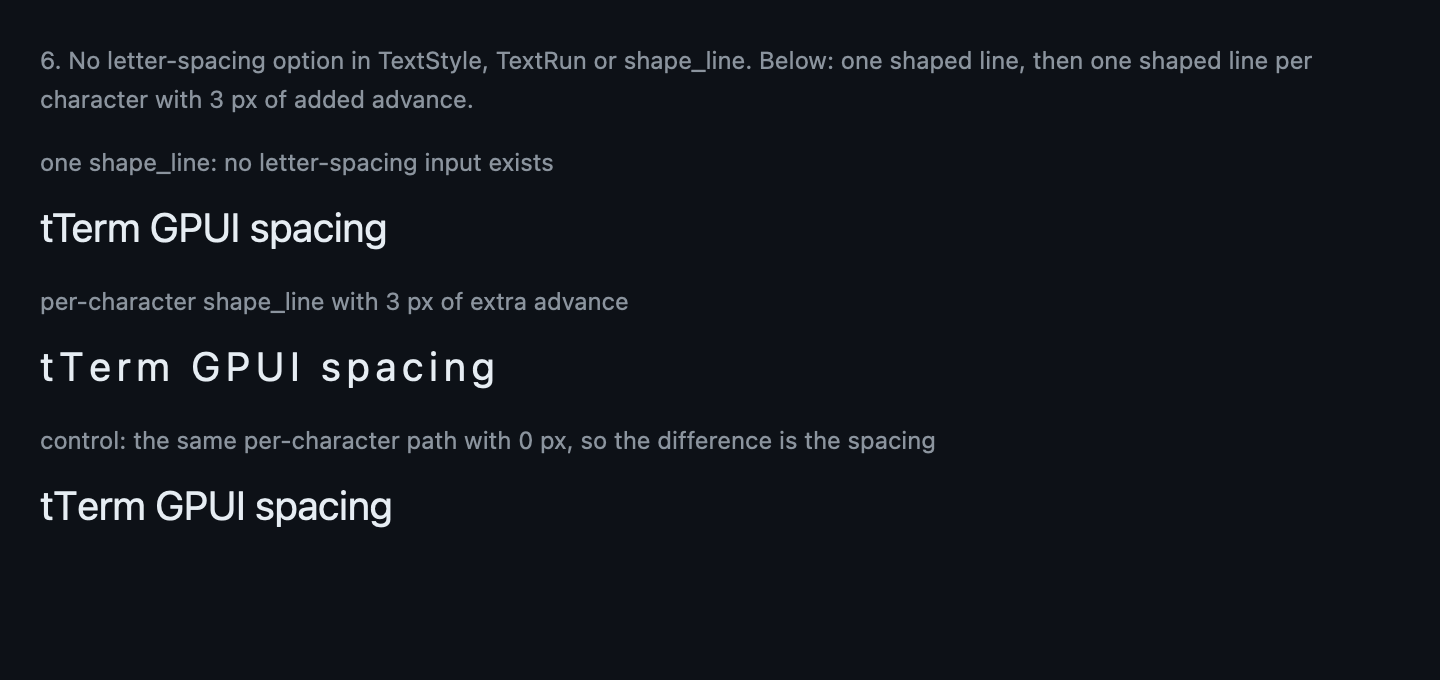
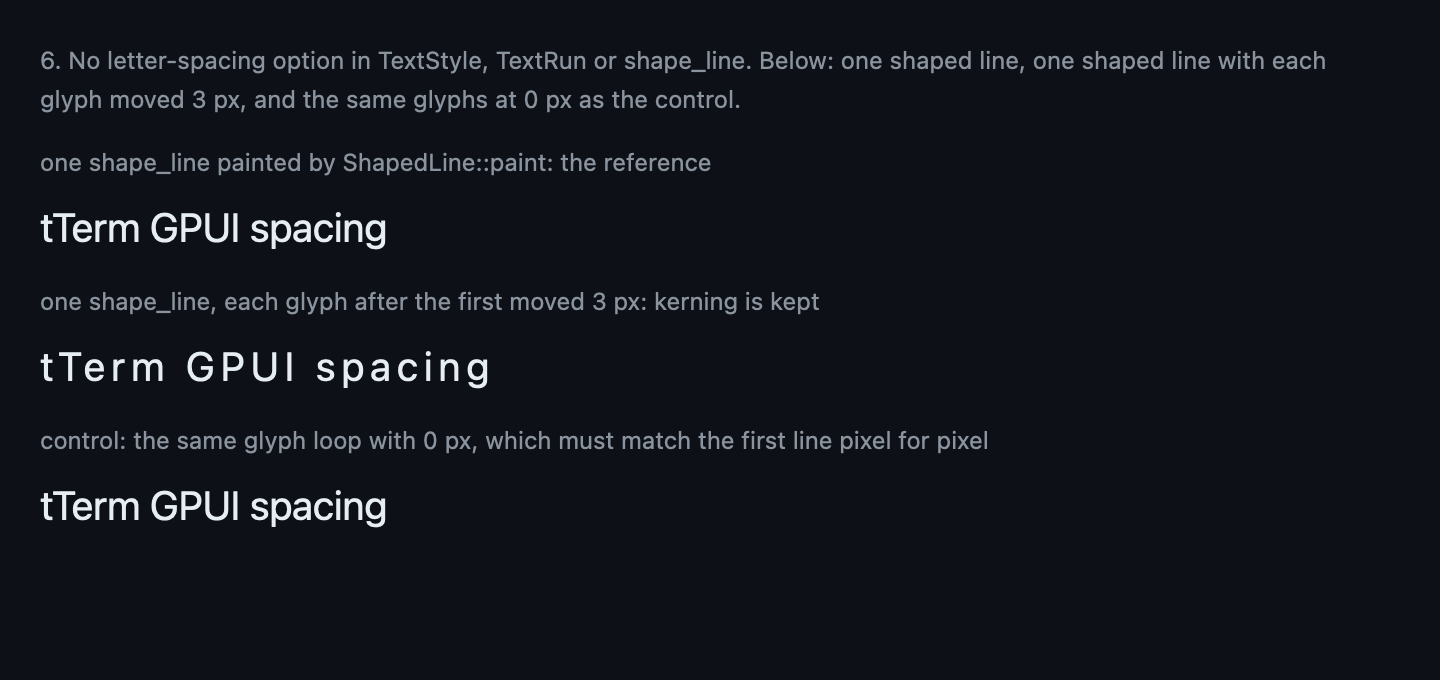
:white_check_mark: fix the P0-25 radial-gradient and letter-spacing demos
The radial demo now puts 24 and 96 concentric circles side by side so
the color bands are visible instead of claiming there are none, strokes
the ring with PathBuilder::stroke on a linear gradient so the middle
shows the background through, and draws the comet's conic gradient as 48
stroked arcs with a per-arc alpha. A source search confirms gpui-pre has
no conic gradient.

The letter-spacing demo shapes the whole line once and moves each
decoded glyph, which keeps kerning. The 0 px control is pixel-identical
to the reference line; the old per-character control ended five physical
pixels late and is gone.

diff --git a/crates/tterm-gpui/examples/p0_25_gpui_capabilities/scenes.rs b/crates/tterm-gpui/examples/p0_25_gpui_capabilities/scenes.rs
@@ -87,7 +87,7 @@ impl Scene {
             Scene::BlurElement => size(px(760.), px(560.)),
             Scene::RoundedMask => size(px(700.), px(420.)),
             Scene::LinearGradient => size(px(740.), px(480.)),
-            Scene::RadialGradient => size(px(700.), px(400.)),
+            Scene::RadialGradient => size(px(760.), px(540.)),
             Scene::LetterSpacing => size(px(720.), px(340.)),
             Scene::Shadows => size(px(760.), px(420.)),
             Scene::SvgColor => size(px(680.), px(300.)),
@@ -115,12 +115,14 @@ impl Scene {
                  stop from equal percentages."
             }
             Scene::RadialGradient => {
-                "5. No radial gradient and no mask. Below: 24 concentric filled circles and a ring \
-                 drawn as two circles."
+                "5. No radial gradient, no conic gradient and no mask. Below: 24 and 96 \
+                 concentric circles, then a ring and a comet stroked on a linear gradient so the \
+                 middle shows the background through."
             }
             Scene::LetterSpacing => {
                 "6. No letter-spacing option in TextStyle, TextRun or shape_line. Below: one shaped \
-                 line, then one shaped line per character with 3 px of added advance."
+                 line, one shaped line with each glyph moved 3 px, and the same glyphs at 0 px as \
+                 the control."
             }
             Scene::Shadows => {
                 "7. Box shadows are a Vec: one, two and three layers, plus an inset layer."
@@ -409,103 +411,205 @@ fn paint_circle(window: &mut Window, center: Point<Pixels>, radius: Pixels, colo
     }
 }
 
-/// Item 5: a radial gradient faked by painting 24 circles from the edge color
-/// down to the center color.
-fn paint_radial_fallback(bounds: Bounds<Pixels>, window: &mut Window) {
-    const STEPS: usize = 24;
+/// The point at `angle` on a circle, so the fill and stroke paths share one
+/// vertex calculation.
+fn circle_vertex(center: Point<Pixels>, radius: f32, angle: f32) -> Point<Pixels> {
+    point(
+        center.x + px(radius * angle.cos()),
+        center.y + px(radius * angle.sin()),
+    )
+}
+
+/// Item 5: a radial gradient faked by painting `steps` circles from the page
+/// color at the rim to the accent color in the middle. More steps make the
+/// color bands narrower, but they never disappear: the band between two rings
+/// still has one flat color.
+fn paint_radial_fallback(bounds: Bounds<Pixels>, window: &mut Window, steps: usize) {
     let center = bounds.center();
     let diameter = f32::from(bounds.size.width).min(f32::from(bounds.size.height));
-    for step in (0..STEPS).rev() {
-        let t = step as f32 / (STEPS - 1) as f32;
-        let radius = diameter / 2.0 * (step + 1) as f32 / STEPS as f32;
+    for step in (0..steps).rev() {
+        let t = step as f32 / (steps - 1) as f32;
+        let radius = diameter / 2.0 * (step + 1) as f32 / steps as f32;
         paint_circle(window, center, px(radius), mix(rgb(ACCENT), rgb(PAGE), t));
     }
 }
 
-/// Item 5: the ring the spinner needs, drawn as a disc with the page color
-/// punched through the middle; a mask would be the CSS way.
-fn paint_ring_fallback(bounds: Bounds<Pixels>, window: &mut Window) {
+/// Item 5: the spinner's ring, stroked as a path instead of filling a disc and
+/// covering the middle with the background color. Nothing is painted inside,
+/// so the canvas' own background shows through the hole.
+fn paint_ring(bounds: Bounds<Pixels>, window: &mut Window) {
+    const SEGMENTS: usize = 64;
     let center = bounds.center();
-    let radius = px(f32::from(bounds.size.width).min(f32::from(bounds.size.height)) / 2.0);
-    paint_circle(window, center, radius, rgb(ACCENT));
-    paint_circle(window, center, radius * 0.62, rgb(PAGE));
+    let stroke = 16.0;
+    let radius = (f32::from(bounds.size.width).min(f32::from(bounds.size.height)) - stroke) / 2.0;
+    let mut builder = PathBuilder::stroke(px(stroke));
+    for index in 0..SEGMENTS {
+        let angle = std::f32::consts::TAU * index as f32 / SEGMENTS as f32;
+        let vertex = circle_vertex(center, radius, angle);
+        if index == 0 {
+            builder.move_to(vertex);
+        } else {
+            builder.line_to(vertex);
+        }
+    }
+    builder.close();
+    if let Ok(path) = builder.build() {
+        window.paint_path(path, rgb(ACCENT));
+    }
 }
 
-/// Item 5, both fallbacks side by side.
-fn radial_gradient_fallbacks() -> Div {
+/// Item 5: the comet spinner's conic-gradient fallback. GPUI has no conic
+/// gradient, so the circle is stroked in 48 arcs and each arc gets its own
+/// alpha, from transparent at the tail to opaque at the head.
+fn paint_comet(bounds: Bounds<Pixels>, window: &mut Window) {
+    const SEGMENTS: usize = 48;
+    let center = bounds.center();
+    let stroke = 16.0;
+    let radius = (f32::from(bounds.size.width).min(f32::from(bounds.size.height)) - stroke) / 2.0;
+    let color = Hsla::from(rgb(ACCENT));
+    for index in 0..SEGMENTS {
+        let from = std::f32::consts::TAU * index as f32 / SEGMENTS as f32;
+        let to = std::f32::consts::TAU * (index + 1) as f32 / SEGMENTS as f32;
+        let mut builder = PathBuilder::stroke(px(stroke));
+        builder.move_to(circle_vertex(center, radius, from));
+        builder.line_to(circle_vertex(center, radius, to));
+        let t = (index + 1) as f32 / SEGMENTS as f32;
+        if let Ok(path) = builder.build() {
+            window.paint_path(path, color.opacity(t));
+        }
+    }
+}
+
+/// The two faked radial gradients. A radial gradient fades into the page
+/// color, so this stage is the page color.
+fn radial_discs() -> Div {
     div()
         .flex()
         .flex_row()
         .gap_6()
-        .items_center()
+        .p_4()
+        .rounded(px(12.))
+        .bg(rgb(PAGE))
         .child(labelled(
-            "24 concentric circles, 24 color steps",
+            "24 concentric circles: visible color bands",
             canvas(
                 |_, _, _| (),
-                |bounds, _, window, _| paint_radial_fallback(bounds, window),
+                |bounds, _, window, _| paint_radial_fallback(bounds, window, 24),
             )
-            .w(px(200.))
-            .h(px(200.)),
+            .w(px(160.))
+            .h(px(160.)),
         ))
         .child(labelled(
-            "a ring: a filled circle with the page color inside",
+            "96 concentric circles: narrower color bands",
             canvas(
                 |_, _, _| (),
-                |bounds, _, window, _| paint_ring_fallback(bounds, window),
+                |bounds, _, window, _| paint_radial_fallback(bounds, window, 96),
             )
-            .w(px(200.))
-            .h(px(200.)),
+            .w(px(160.))
+            .h(px(160.)),
         ))
 }
 
-/// Shapes and paints one line of text. With `tracking` set the line is shaped
-/// one character at a time and advanced by hand, which is the only way GPUI
-/// can add letter spacing.
-fn paint_line(
+/// The rings sit on a linear gradient: both are stroked, so the gradient has
+/// to show through the hole in the ring and between the comet's arcs.
+fn radial_rings() -> Div {
+    div()
+        .flex()
+        .flex_row()
+        .gap_6()
+        .p_4()
+        .rounded(px(12.))
+        .bg(linear_gradient(
+            90.,
+            linear_color_stop(rgb(0x7ee787), 0.),
+            linear_color_stop(rgb(0xf778ba), 1.),
+        ))
+        .child(labelled(
+            "ring: PathBuilder::stroke(16), the middle is untouched",
+            canvas(
+                |_, _, _| (),
+                |bounds, _, window, _| paint_ring(bounds, window),
+            )
+            .w(px(140.))
+            .h(px(140.)),
+        ))
+        .child(labelled(
+            "comet: 48 stroked arcs, alpha 0 to 1, the conic-gradient fallback",
+            canvas(
+                |_, _, _| (),
+                |bounds, _, window, _| paint_comet(bounds, window),
+            )
+            .w(px(140.))
+            .h(px(140.)),
+        ))
+}
+
+/// Item 5: both fallbacks, one stage per background.
+fn radial_gradient_fallbacks() -> Div {
+    div()
+        .flex()
+        .flex_col()
+        .gap_4()
+        .child(radial_discs())
+        .child(radial_rings())
+}
+
+/// Paints one line through `ShapedLine::paint`. This is the reference the
+/// other rows are compared against.
+fn paint_whole_line(bounds: Bounds<Pixels>, window: &mut Window, cx: &mut App, text: &'static str) {
+    let font = Font::default();
+    let font_size = px(20.);
+    let line_height = px(30.);
+    let color = Hsla::from(rgb(TEXT));
+    let run = text_run(&font, color, text.len());
+    let line = window
+        .text_system()
+        .shape_line(SharedString::from(text), font_size, &[run], None);
+    let _ = line.paint(
+        bounds.origin,
+        line_height,
+        TextAlign::Left,
+        None,
+        window,
+        cx,
+    );
+}
+
+/// Item 6's fallback: shape the line once, then paint each decoded glyph with
+/// `window.paint_glyph` at its shaped position plus `spacing * glyph_index`.
+/// Shaping the whole line keeps the font's kerning; shaping one character at a
+/// time loses it, which is why the old per-character control line ended short.
+fn paint_spaced_line(
     bounds: Bounds<Pixels>,
     window: &mut Window,
-    cx: &mut App,
     text: &'static str,
-    tracking: Option<Pixels>,
+    spacing: Pixels,
 ) {
     let font = Font::default();
     let font_size = px(20.);
     let line_height = px(30.);
     let color = Hsla::from(rgb(TEXT));
-    let mut x = bounds.origin.x;
-    match tracking {
-        None => {
-            let run = text_run(&font, color, text.len());
-            let line =
-                window
-                    .text_system()
-                    .shape_line(SharedString::from(text), font_size, &[run], None);
-            let _ = line.paint(
-                bounds.origin,
-                line_height,
-                TextAlign::Left,
-                None,
-                window,
-                cx,
+    let run = text_run(&font, color, text.len());
+    let line = window
+        .text_system()
+        .shape_line(SharedString::from(text), font_size, &[run], None);
+    // The baseline `ShapedLine::paint` uses: the line box centers the font's
+    // ascent and descent around the glyphs.
+    let padding_top = (line_height - line.ascent - line.descent) / 2.;
+    let baseline = bounds.origin.y + padding_top + line.ascent;
+    let mut glyph_index = 0;
+    for run in &line.runs {
+        for glyph in &run.glyphs {
+            let origin = point(
+                bounds.origin.x + glyph.position.x + spacing * glyph_index,
+                baseline + glyph.position.y,
             );
-        }
-        Some(tracking) => {
-            for character in text.chars() {
-                let single = SharedString::from(character.to_string());
-                let run = text_run(&font, color, single.len());
-                let line = window
-                    .text_system()
-                    .shape_line(single, font_size, &[run], None);
-                let _ = line.paint(
-                    point(x, bounds.origin.y),
-                    line_height,
-                    TextAlign::Left,
-                    None,
-                    window,
-                    cx,
-                );
-                x += line.width() + tracking;
-            }
+            let _ = if glyph.is_emoji {
+                window.paint_emoji(origin, run.font_id, glyph.id, line.font_size)
+            } else {
+                window.paint_glyph(origin, run.font_id, glyph.id, line.font_size, color)
+            };
+            glyph_index += 1;
         }
     }
 }
@@ -522,40 +626,37 @@ fn text_run(font: &Font, color: Hsla, len: usize) -> TextRun {
     }
 }
 
-/// Item 6: the whole line, the per-character line with 3 px between glyphs,
-/// and the per-character line without extra spacing as the control.
+/// Item 6: the whole line, the same line shaped once and moved 3 px per glyph,
+/// and the same glyph loop with 0 px as the control.
 fn letter_spacing() -> Div {
+    const TEXT: &str = "tTerm GPUI spacing";
     div()
         .flex()
         .flex_col()
         .gap_3()
         .child(labelled(
-            "one shape_line: no letter-spacing input exists",
+            "one shape_line painted by ShapedLine::paint: the reference",
             canvas(
                 |_, _, _| (),
-                |bounds, _, window, cx| paint_line(bounds, window, cx, "tTerm GPUI spacing", None),
+                |bounds, _, window, cx| paint_whole_line(bounds, window, cx, TEXT),
             )
             .h(px(30.))
             .w_full(),
         ))
         .child(labelled(
-            "per-character shape_line with 3 px of extra advance",
+            "one shape_line, each glyph after the first moved 3 px: kerning is kept",
             canvas(
                 |_, _, _| (),
-                |bounds, _, window, cx| {
-                    paint_line(bounds, window, cx, "tTerm GPUI spacing", Some(px(3.)))
-                },
+                |bounds, _, window, _| paint_spaced_line(bounds, window, TEXT, px(3.)),
             )
             .h(px(30.))
             .w_full(),
         ))
         .child(labelled(
-            "control: the same per-character path with 0 px, so the difference is the spacing",
+            "control: the same glyph loop with 0 px, which must match the first line pixel for pixel",
             canvas(
                 |_, _, _| (),
-                |bounds, _, window, cx| {
-                    paint_line(bounds, window, cx, "tTerm GPUI spacing", Some(px(0.)))
-                },
+                |bounds, _, window, _| paint_spaced_line(bounds, window, TEXT, px(0.)),
             )
             .h(px(30.))
             .w_full(),
